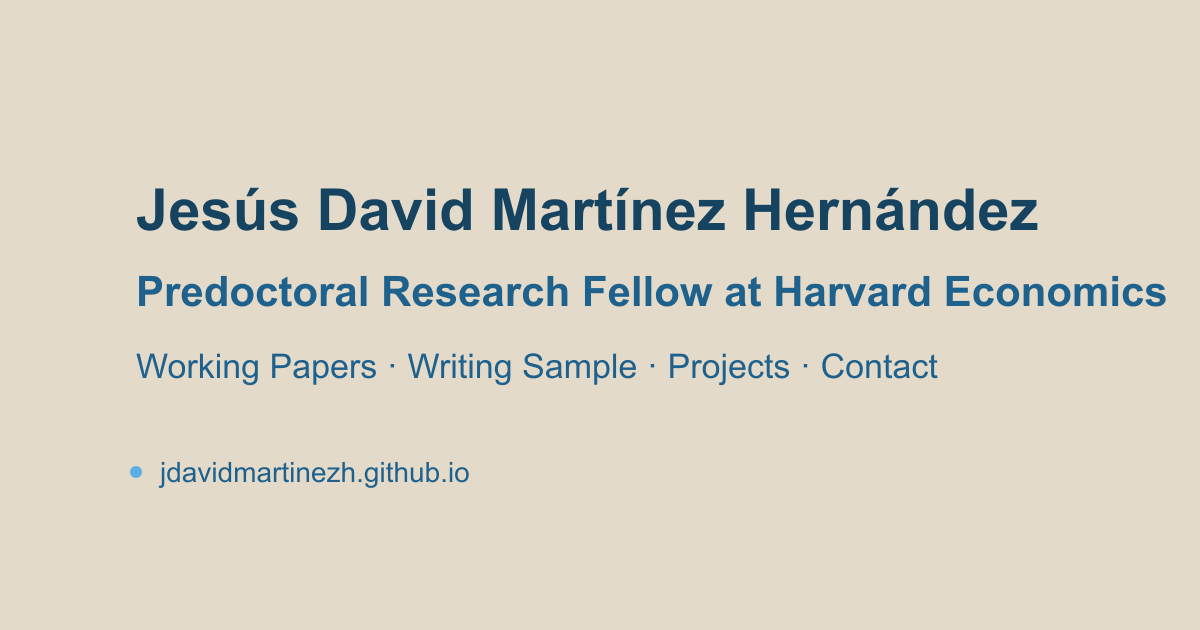
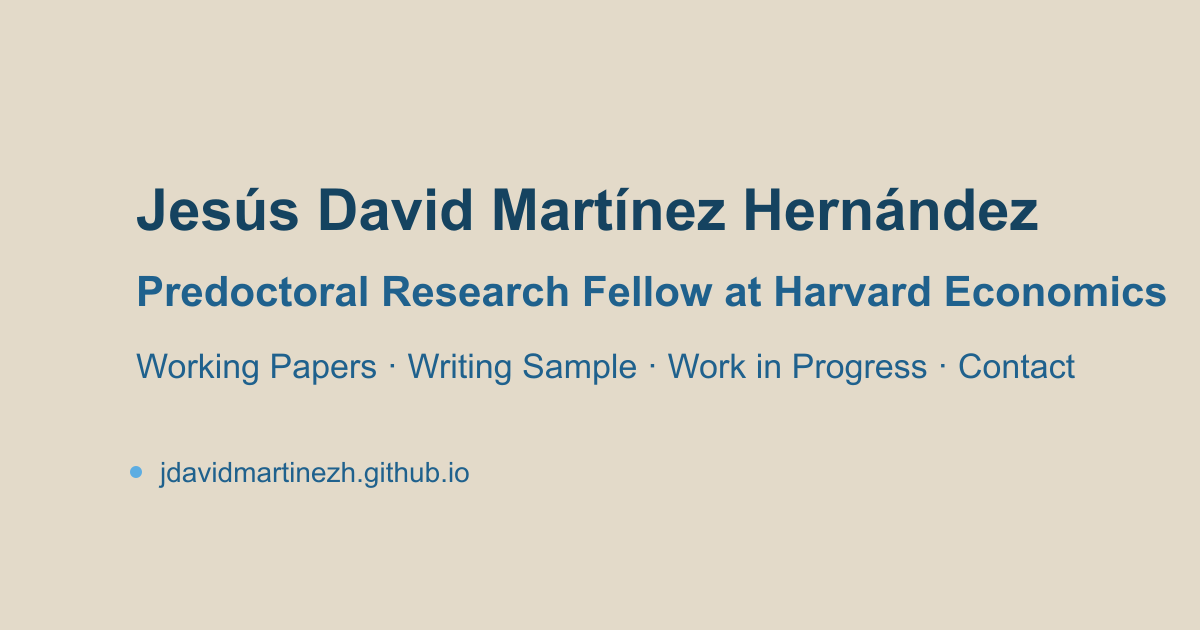
Rename projects and refine About

Changed region(s): [[0.555, 0.5429, 0.8942, 0.6032]]

diff --git a/index.html b/index.html
@@ -5,7 +5,7 @@
     <meta name="viewport" content="width=device-width, initial-scale=1" />
     <meta
       name="description"
-      content="Jesús David Martínez Hernández, predoctoral research fellow at Harvard Economics. Working papers, writing sample, projects, and contact."
+      content="Jesús David Martínez Hernández, predoctoral research fellow at Harvard Economics. Working papers, writing sample, work in progress, and contact."
     />
     <title>⛰ Jesús David Martínez Hernández</title>
     <link rel="canonical" href="https://jdavidmartinezh.github.io/" />
@@ -16,7 +16,7 @@
     <meta property="og:title" content="Jesús David Martínez Hernández" />
     <meta
       property="og:description"
-      content="Predoctoral Research Fellow at Harvard Economics. Working papers, writing sample, projects, and contact."
+      content="Predoctoral Research Fellow at Harvard Economics. Working papers, writing sample, work in progress, and contact."
     />
     <meta property="og:image" content="https://jdavidmartinezh.github.io/assets/og-image.png?v=20261120-2" />
     <meta property="og:image:width" content="1200" />
@@ -28,7 +28,7 @@
     <meta name="twitter:title" content="Jesús David Martínez Hernández" />
     <meta
       name="twitter:description"
-      content="Predoctoral Research Fellow at Harvard Economics. Working papers, writing sample, projects, and contact."
+      content="Predoctoral Research Fellow at Harvard Economics. Working papers, writing sample, work in progress, and contact."
     />
     <meta name="twitter:image" content="https://jdavidmartinezh.github.io/assets/og-image.png?v=20261120-2" />
 
@@ -49,7 +49,7 @@
           <a href="assets/RESUME_JDMH_PERSONAL_WEBSITE.pdf?v=20261120-3">CV</a>
           <a class="jump-link" href="#writing-sample">Writing Sample ↓</a>
           <a class="jump-link" href="#working-papers">Working Papers ↓</a>
-          <a class="jump-link" href="#projects">Projects ↓</a>
+          <a class="jump-link" href="#work-in-progress">Work in Progress ↓</a>
         </div>
       </div>
     </header>
@@ -58,19 +58,19 @@
       <main id="main" class="content">
         <section id="about" aria-labelledby="about-title">
           <h2 id="about-title">About</h2>
+          <p>
+            I am currently a predoctoral research fellow at Harvard University, where I work with
+            <a class="about-link" href="https://sites.google.com/view/ebreza/home" target="_blank" rel="noopener noreferrer">Emily Breza</a>
+            and
+            <a class="about-link" href="https://dviviano.github.io/" target="_blank" rel="noopener noreferrer">Davide Viviano</a>
+            on causal inference and development economics. I hope to build my career at
+            the intersection of these fields. Having spent my
+            formative years in Mexico, I am also drawn to political economy as a way
+            to understand the realities that shape society.
+          </p>
           <details class="about-details">
-            <summary>Background and experience</summary>
+            <summary>Previous experience and education</summary>
             <div class="about-copy">
-              <p>
-                I am currently a predoctoral research fellow at Harvard University, where I work with
-                <a class="about-link" href="https://sites.google.com/view/ebreza/home" target="_blank" rel="noopener noreferrer">Emily Breza</a>
-                and
-                <a class="about-link" href="https://dviviano.github.io/" target="_blank" rel="noopener noreferrer">Davide Viviano</a>
-                on causal inference and development economics. I hope to build my career at
-                the intersection of these fields. Having spent my
-                formative years in Mexico, I am also drawn to political economy as a way
-                to understand the realities that shape society.
-              </p>
               <p>
                 Previously, I served as a Research and Scaling Fellow at
                 <a class="about-link" href="https://www.povertyactionlab.org/person/martinez-hernandez" target="_blank" rel="noopener noreferrer">J-PAL Latin America and the Caribbean</a>,
@@ -90,8 +90,8 @@
           </details>
 
         </section>
-        <section id="work-in-progress" aria-labelledby="work-in-progress-title">
-          <h2 id="work-in-progress-title">Writing Sample</h2>
+        <section id="writing-sample-section" aria-labelledby="writing-sample-title">
+          <h2 id="writing-sample-title">Writing Sample</h2>
 
           <article class="paper" id="writing-sample">
             <div class="paper-main">
@@ -223,8 +223,8 @@
           </article>
         </section>
 
-        <section id="projects" aria-labelledby="projects-title">
-          <h2 id="projects-title">Projects</h2>
+        <section id="work-in-progress" aria-labelledby="work-in-progress-title">
+          <h2 id="work-in-progress-title">Work in Progress</h2>
 
           <article class="paper" id="infonavit">
             <div class="paper-main">
@@ -307,7 +307,7 @@
       Self-audit checklist:
       - No horizontal scrolling at 320px. (confirmed)
       - Writing Sample is the second visible section. (confirmed)
-      - Projects is the fourth visible section. (confirmed)
+      - Work in Progress is the fourth visible section. (confirmed)
       - Desktop shows 2 columns at >= 960px. (confirmed)
       - Dark mode readable and not inverted incorrectly. (confirmed)
     -->
